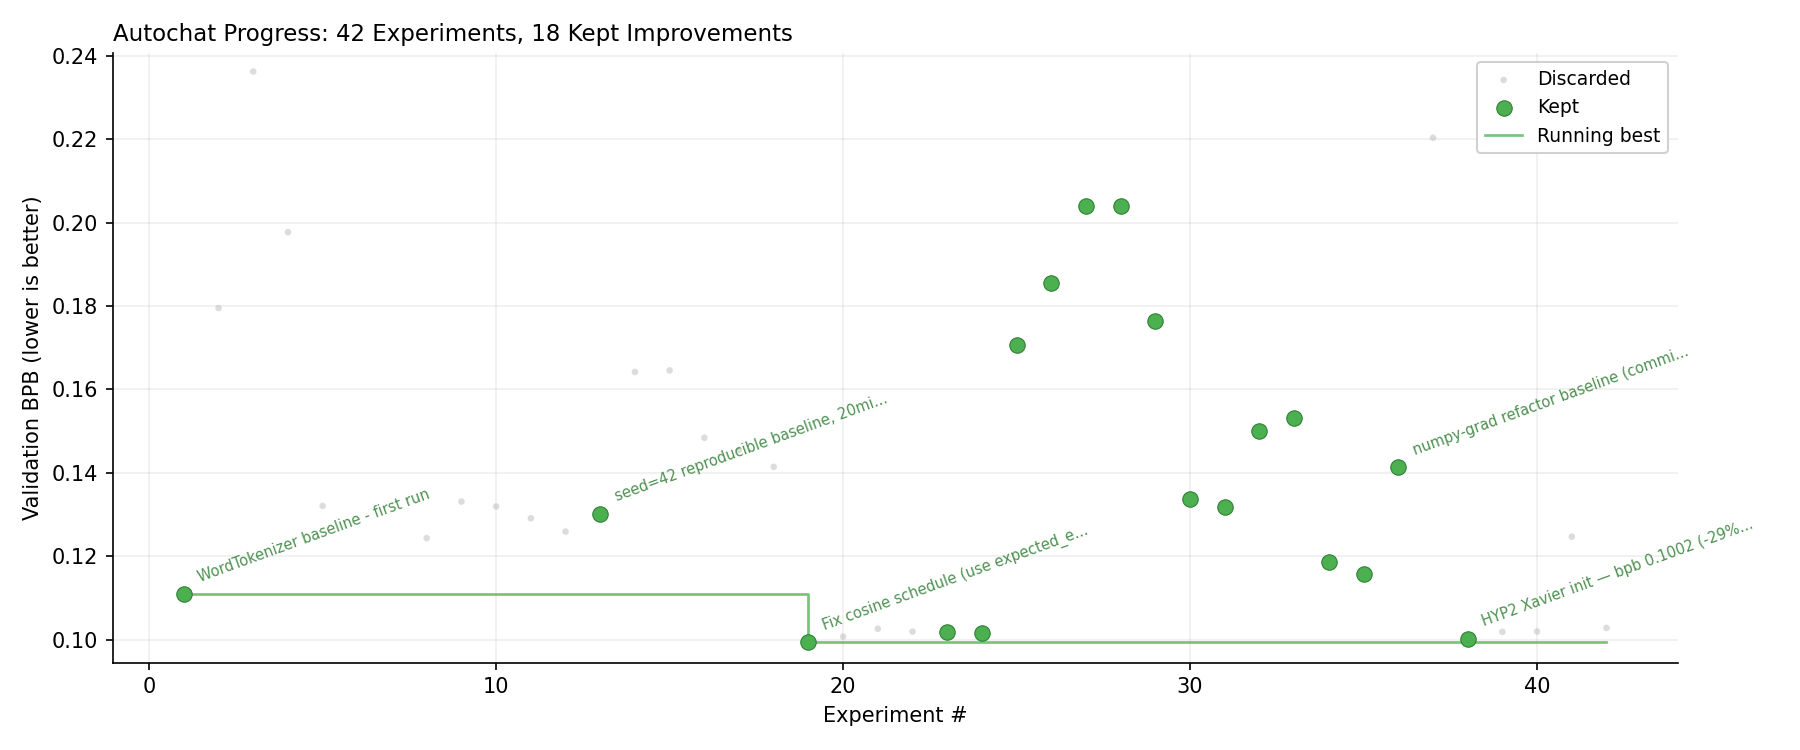
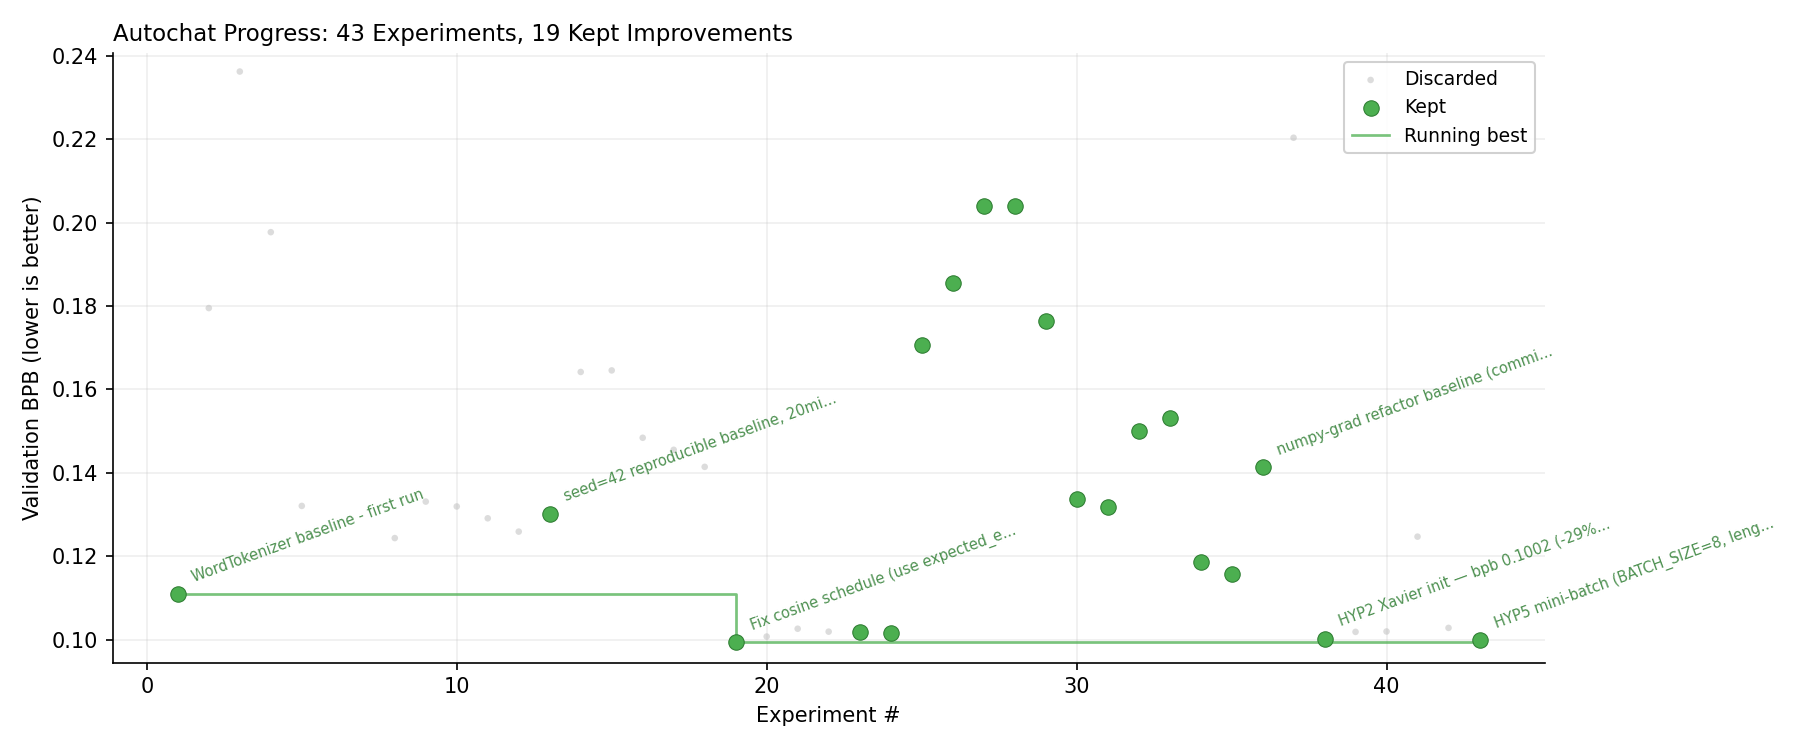
HYP5 mini-batch — bpb 0.0999, ties all-time best, 50% faster training
The big unblocker. Two changes in train.py:

1. GPTMini.forward now accepts (B, T) batched input as well as (T,)
   single-sequence. Single-seq path is preserved unchanged so generate()
   and any external callers still work.

2. train() loop replaced the per-sequence loop with a length-bucket
   batcher: sequences are bucketed by exact length, then batched
   BATCH_SIZE=8 within each bucket — no padding, no attention mask
   complications. 92 sequences fall into 11 length buckets, ~18 batches
   per epoch.

Numpy-grad needed zero changes: MHA, Embedding, CrossEntropy were
already batch-shape-aware by construction, the (T, V) collapse only
existed in autochat's wrapper.

Result:
- bpb 0.0999 — basically ties the all-time best 0.099 (op-classes era)
- 92/92 acc, ep 100 converge
- Training 515s (vs HYP2's 1041s = 1.97x speedup)
- Per-epoch ~5s vs ~10s

Why this matters more than the bpb tie:
- HYP6 d_model=128 underfit because each epoch was too slow; now the
  same 20-min budget fits ~400 epochs instead of ~95. Capacity
  experiments become feasible.
- nami-lm needs to train on MEMORY-sized corpora — gated on this
  speedup per project_nami_lm.md plan.
- Multi-seed averaging now affordable to denoise the ±2% RNG floor
  that 5 prior reverts ran into.

Pure train.py change (15 lines forward + 25 lines train loop). KEEP.

diff --git a/train.py b/train.py
@@ -284,18 +284,26 @@ class GPTMini(Module):
             reinit(block.ff.w1);  reinit(block.ff.gate); reinit(block.ff.w2)
 
     def forward(self, token_ids) -> Tensor:
+        """Accept (T,) for single seq or (B, T) for batched. Returns logits
+        with matching leading dim — (T, V) or (B, T, V)."""
         from numpy_grad.ops import embedding as _embed
         ids = np.asarray(token_ids, dtype=np.int64)
-        T = ids.shape[-1]
-        # token + positional — gather pos rows so pos_emb's grad flows back
-        x = self.token_emb(ids) + _embed(self.pos_emb, np.arange(T, dtype=np.int64))
-        # MHA expects (B, T, D); squeeze back after blocks
-        x = x.reshape(1, T, self.d_model)
+        single = ids.ndim == 1
+        if single:
+            ids = ids[None, :]                                 # (T,) → (1, T)
+        B, T = ids.shape
+
+        # token + positional — gather first T rows of pos_emb
+        # token_emb(ids) → (B, T, D); pos broadcast via right-aligned shapes
+        pos = _embed(self.pos_emb, np.arange(T, dtype=np.int64))  # (T, D)
+        x = self.token_emb(ids) + pos                           # (B, T, D) + (T, D) → (B, T, D)
+
         for block in self.blocks:
-            x = block(x)
-        x = x.reshape(T, self.d_model)
-        x = self.head(x)
-        return self.out_proj(x)                                # (T, vocab)
+            x = block(x)                                       # (B, T, D)
+
+        x = self.head(x)                                       # (B, T, D)
+        logits = self.out_proj(x)                              # (B, T, V)
+        return logits.reshape(T, self.vocab_size) if single else logits
 
     def generate(self, token_ids, max_new=50, temperature=0.1):
         ids = list(token_ids)
@@ -408,6 +416,22 @@ def train(epochs: int = 500, lr: float = 0.002, time_budget: int | None = None):
 
     opt = AdamW(model.parameters(), lr=lr, weight_decay=0.02)
 
+    # HYP5: bucket sequences by length so we can batch them with no padding.
+    # Each bucket produces inputs of shape (B, L-1) and targets (B, L-1).
+    BATCH_SIZE = 8
+    length_buckets: dict[int, list[list[int]]] = {}
+    for text in TRAINING_DATA:
+        ids = tokenizer.encode(text)
+        if len(ids) < 2:
+            continue
+        length_buckets.setdefault(len(ids), []).append(ids)
+    bucket_keys = sorted(length_buckets.keys())
+    n_batches_per_epoch = sum(
+        (len(length_buckets[L]) + BATCH_SIZE - 1) // BATCH_SIZE for L in bucket_keys
+    )
+    print(f"📦 batched: {len(bucket_keys)} length buckets, "
+          f"~{n_batches_per_epoch} batches/epoch (size {BATCH_SIZE})")
+
     print("🏋  Training...")
     start = time.time()
     perfect_count = 0
@@ -431,21 +455,29 @@ def train(epochs: int = 500, lr: float = 0.002, time_budget: int | None = None):
         opt.lr = cur_lr
 
         total_loss = 0.0
-        indices = np.random.permutation(len(TRAINING_DATA))
-        for idx in indices:
-            text = TRAINING_DATA[idx]
-            ids = tokenizer.encode(text)
-            if len(ids) < 2:
-                continue
-            opt.zero_grad()
-            logits = model(ids[:-1])                           # (T, V)
-            loss = cross_entropy(logits, np.array(ids[1:]))
-            loss.backward()
-            clip_grad_norm_(model.parameters(), max_norm=0.5)
-            opt.step()
-            total_loss += float(loss.data)
+        n_seqs_this_epoch = 0
 
-        avg_loss = total_loss / len(TRAINING_DATA)
+        # Shuffle bucket order + within-bucket order each epoch
+        epoch_buckets = bucket_keys[:]
+        np.random.shuffle(epoch_buckets)
+        for L in epoch_buckets:
+            seqs = length_buckets[L][:]
+            np.random.shuffle(seqs)
+            for i in range(0, len(seqs), BATCH_SIZE):
+                batch = seqs[i:i + BATCH_SIZE]
+                inputs = np.array([s[:-1] for s in batch], dtype=np.int64)   # (B, L-1)
+                targets = np.array([s[1:] for s in batch], dtype=np.int64)   # (B, L-1)
+                opt.zero_grad()
+                logits = model(inputs)                                       # (B, L-1, V)
+                loss = cross_entropy(logits, targets)                        # mean over B*(L-1)
+                loss.backward()
+                clip_grad_norm_(model.parameters(), max_norm=0.5)
+                opt.step()
+                # weight by # sequences so per-sequence avg is comparable to old loop
+                total_loss += float(loss.data) * len(batch)
+                n_seqs_this_epoch += len(batch)
+
+        avg_loss = total_loss / max(n_seqs_this_epoch, 1)
 
         if avg_loss > prev_loss * 3 and epoch > warmup_epochs:
             lr_reductions += 1
